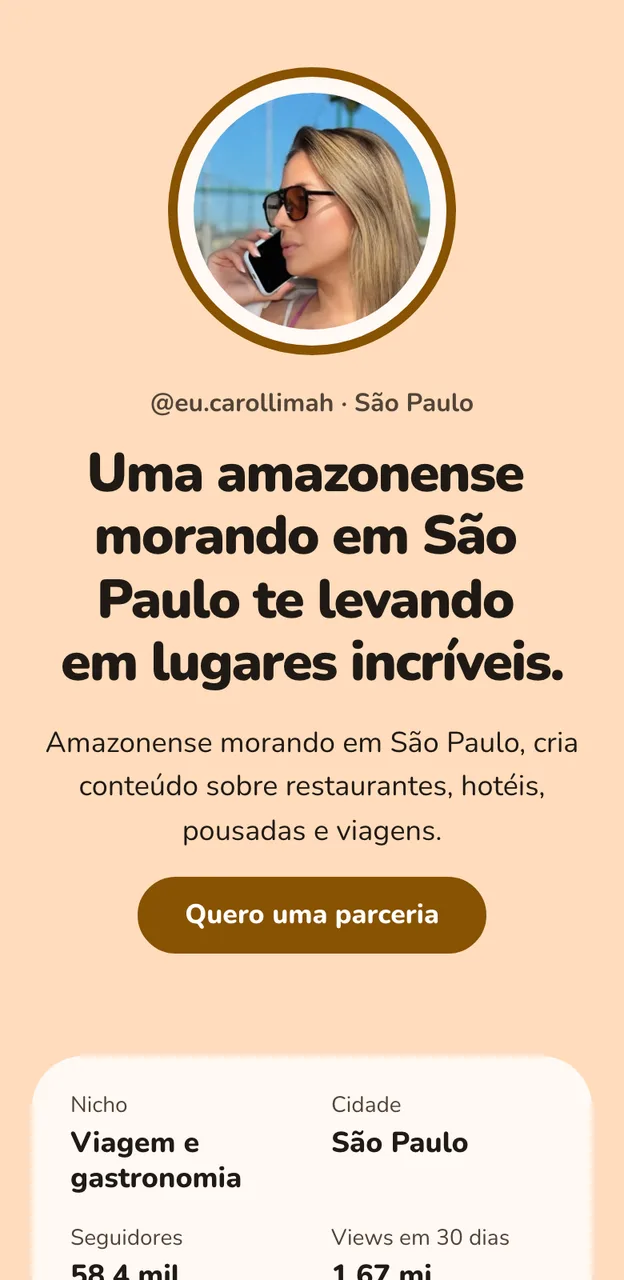
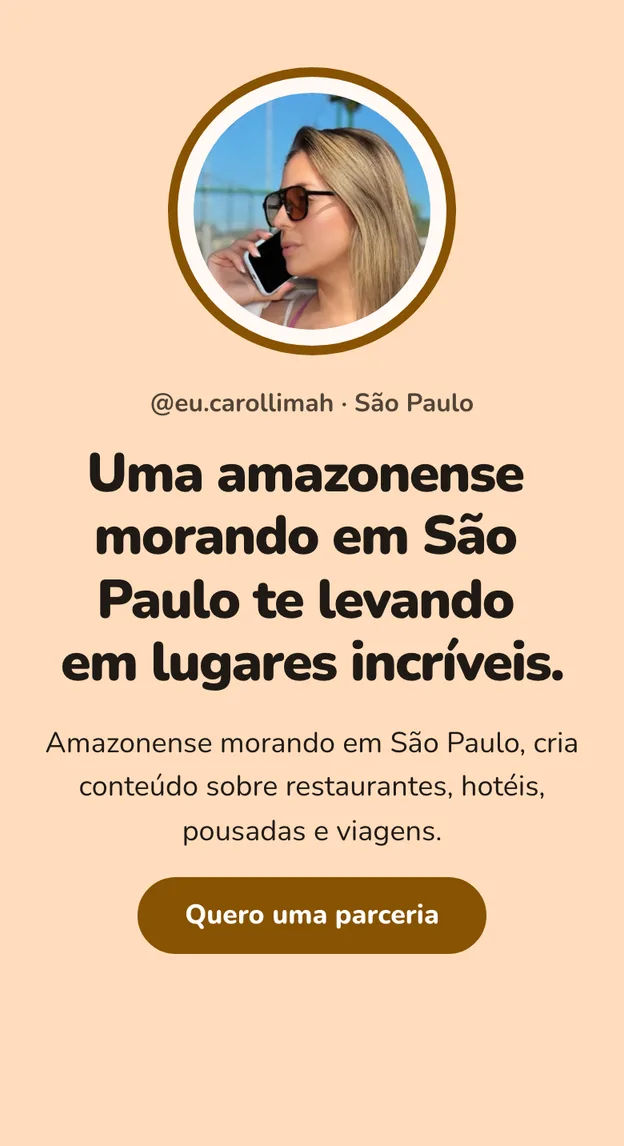
DEV-097: enquadramento do topo da página de vendas (cada imagem na proporção do seu espaço: capa inteira, números 3:4, reel 9:16)

diff --git a/docs/PROGRESSO.md b/docs/PROGRESSO.md
@@ -42,8 +42,9 @@ Diário do projeto e memória entre sessões. Toda IA que trabalhar aqui lê a s
     - Origem: tudo sai do modo Ver do editor de verdade, com o projeto da conta de teste. Esse projeto é preenchido pelo `seed:carol` só com dados do site dela (foto `p9.webp`, vídeos, 58,4 mil seguidores, público e marcas), na cor caramelo dela.
     - Roteiro: `scripts/portfolio-creator-secoes.mjs`. Só lê o banco, põe o projeto no rascunho do navegador e gera:
       - as 6 imagens da vitrine;
-      - o celular grande do topo (`portfolio-carol.webp`, com a capa);
-      - as 2 imagens pequenas (vídeos na página clara, números na escura);
+      - o celular grande do topo (`portfolio-carol.webp`): só a capa, terminando no fundo da página;
+      - as 2 imagens pequenas: `topo-numeros.webp` (os três números, página clara) e `topo-reel.webp` (um reel dela, sem a etiqueta "Com som");
+      - todas as imagens do topo saem já na proporção exata do espaço em que aparecem (celular 0,545, cartão 3:4, reel 9:16). Antes, a página cortava o que sobrava, e o enquadramento ficava ruim (você reclamou em 28/out);
       - a prévia de link `og-portfolio-creator.jpg`, que diz "Seções prontas" e mostra o celular da Carol.
     - A seção do modo iniciante continua com o celular "Bia" do protótipo (`portfolio-iniciante.webp`), porque ali o assunto é quem ainda não tem números.
     - As 15 `modelo-*.webp` foram apagadas, e o `portfolio-creator-shots.mjs` agora só gera o celular do modo iniciante e as fotos da Carol.
